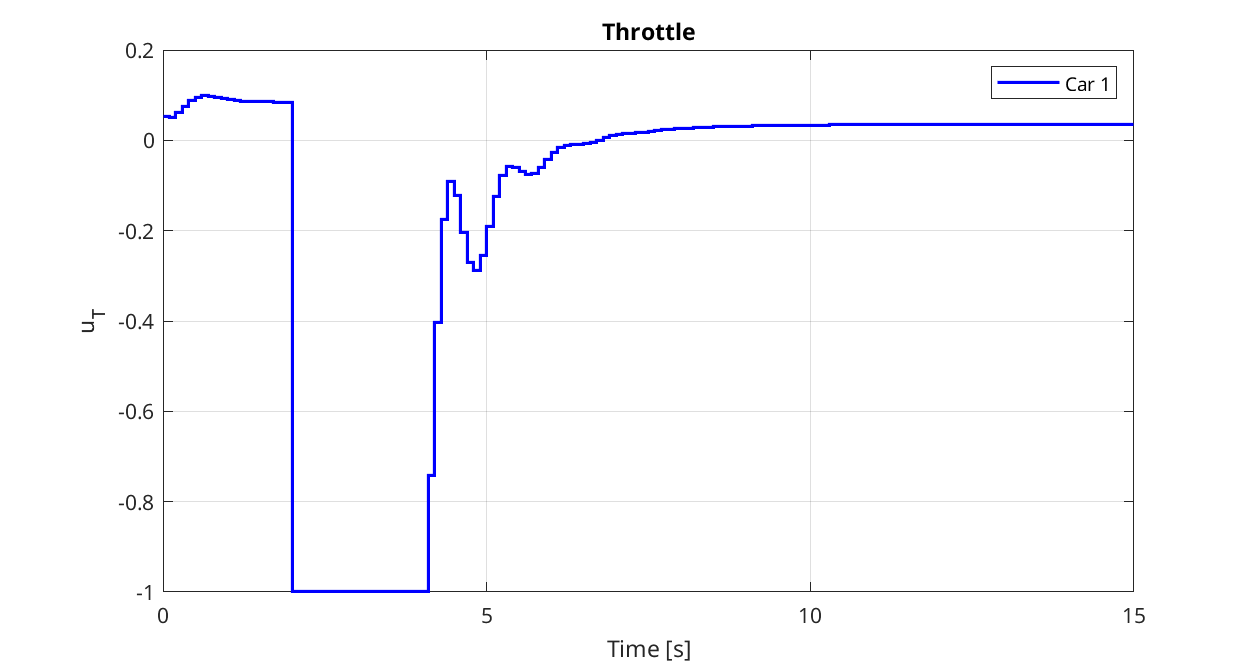
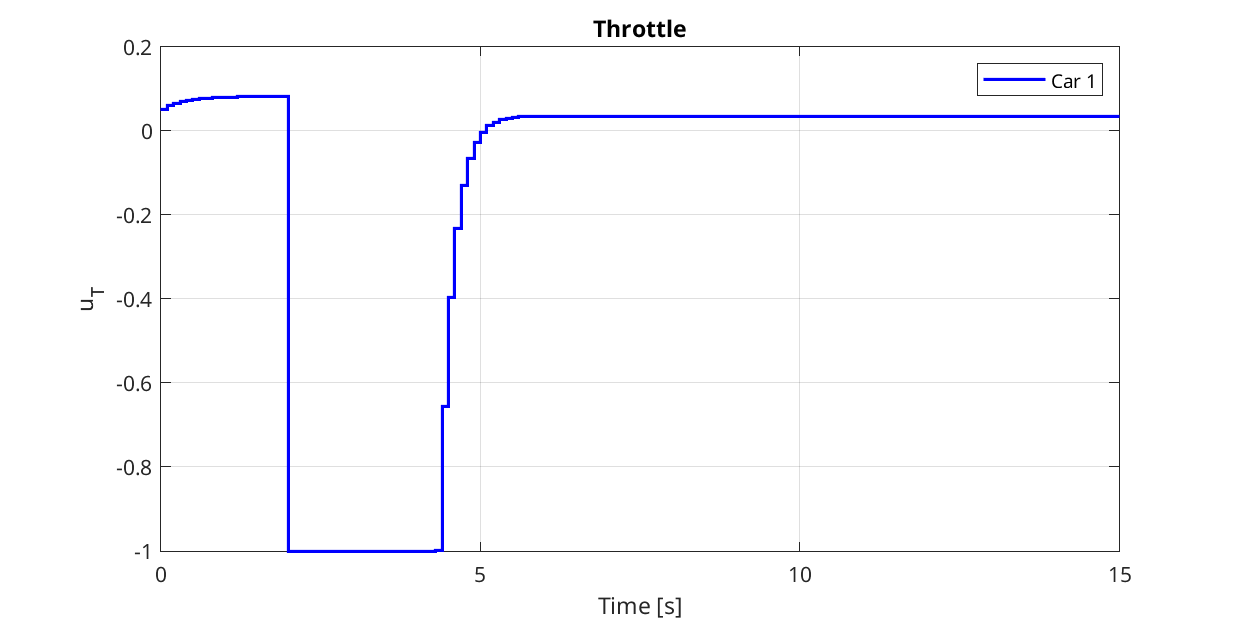
finished part 5 needs to fine tune params

diff --git a/Deliverable_5_1/MpcControl_lon.m b/Deliverable_5_1/MpcControl_lon.m
@@ -1,93 +1,113 @@
 classdef MpcControl_lon < MpcControlBase
     
     methods
-        function mpc = MpcControl_lon(sys, Ts, H)
-            % Call superclass constructor
-            mpc = mpc@MpcControlBase(sys, Ts, H);
-
-        end
-        
         % Design a YALMIP optimizer object that takes a steady-state state
         % and input (xs, us) and returns a control input
         function ctrl_opti = setup_controller(mpc)
             
-            % Horizon parameters
+            %%%%%%%%%%%%%%%%%%%%%%%%%%%%%%%%%%%%%%%%%%%%%%%%
+            % INPUTS
+            %   x0           - initial state (estimate)
+            %   V_ref, u_ref - reference state/input
+            %   d_est        - disturbance estimate
+            %   x0other      - initial state of other car
+            % OUTPUTS
+            %   u0           - input to apply to the system
+            %%%%%%%%%%%%%%%%%%%%%%%%%%%%%%%%%%%%%%%%%%%%%%%%%
+            
             N_segs = ceil(mpc.H/mpc.Ts); % Horizon steps
             N = N_segs + 1;              % Last index in 1-based Matlab indexing
-            
+
             [nx, nu] = size(mpc.B);
             
-            % Targets (not used in relative dynamics)
+            % Targets
             V_ref = sdpvar(1);
             u_ref = sdpvar(1);
-            
-            % Disturbance estimate (not used in tube MPC)
+
+            % Disturbance estimate (Ignore this before Todo 4.1)
             d_est = sdpvar(1);
-            
-            % Initial states (actual and lead car)
+
+            % Initial states
             x0 = sdpvar(nx, 1);
-            x0other = sdpvar(nx, 1);
-            
+            x0other = sdpvar(nx, 1); % (Ignore this before Todo 5.1)
+
             % Input to apply to the system
             u0 = sdpvar(nu, 1);
             
-            % YALMIP Decision variables
-            X = sdpvar(nx, N); % Nominal state trajectory
-            U = sdpvar(nu, N-1); % Nominal input trajectory
-
-
-            % Load pre-computed tube MPC components
+            %%%%%%%%%%%%%%%%%%%%%%%%%%%%%%%%%%%%%%%%%%%%%%%%%%%%%%%%%%%%%%%
+            % YOUR CODE HERE YOUR CODE HERE YOUR CODE HERE YOUR CODE HERE
+            
+            % NOTE: The matrices mpc.A, mpc.B, mpc.C and mpc.D
+            %       are the DISCRETE-TIME MODEL of your system.
+            %       You can find the linearization steady-state
+            %       in mpc.xs and mpc.us.
+            
+            % SET THE PROBLEM CONSTRAINTS con AND THE OBJECTIVE obj HERE
+          
+            % Load pre-computed tube MPC components for robust control
             data = load('tube_mpc_data.mat');
+            xsafe = [data.xsafe_pos; 0];  % Safe reference point [position; velocity]
             
-            % Safe reference point [position; velocity]
-            xsafe = [data.xsafe_pos; 0];
+            % Cost matrices for nominal trajectory tracking
+            Q_track = data.Q_track;    % State cost matrix
+            R_track = data.R_track;    % Input cost matrix
+
+            % Get tightened constraint sets for robust feasibility
+            % These account for the effect of disturbances
+            Fx_t = data.X_tilde.A;     % Tightened state constraint matrix
+            fx_t = data.X_tilde.b;     % Tightened state constraint bounds
+            Fu_t = data.U_tilde.A;     % Tightened input constraint matrix
+            fu_t = data.U_tilde.b;     % Tightened input constraint bounds
+
+            % Setup optimization variables for nominal trajectories
+            X = sdpvar(nx, N);     % Nominal state trajectory [position; velocity]
+            U = sdpvar(nu, N-1);   % Nominal input trajectory [acceleration]
             
-            % Initialize objective and constraints
-            obj = 0;
-            con = [];
+            % Initialize optimization problem
+            obj = 0;    % Objective function
+            con = [];   % Constraint list
             
-            % Initial state constraint (relative coordinates)
+            % Set initial state constraint in relative coordinates
+            % Transform to deviation from safe reference point
             con = con + (X(:,1) == x0other - x0 - xsafe);
             
-            % Cost matrices from data
-            Q = data.Q_track; % State cost for tracking
-            R = data.R_track; % Input cost for tracking
-            
-            % Compute tightened constraint matrices
-            Fx_t = data.X_tilde.A; % State constraints
-            fx_t = data.X_tilde.b;
-            Fu_t = data.U_tilde.A; % Input constraints
-            fu_t = data.U_tilde.b;
-        
-            
-            % Loop over prediction horizon
+            % Build constraints and objective over prediction horizon
             for k = 1:N-1
-                % Cost function
-                obj = obj + X(:,k)'*Q*X(:,k) + U(:,k)'*R*U(:,k);
+                % System dynamics in relative coordinates
+                % Note: Negative input due to relative dynamics transformation
+                con = con + (X(:,k+1) == mpc.A*X(:,k) - mpc.B*U(:,k));
                 
-                % System dynamics
-                con = con + (X(:,k+1) == mpc.A*X(:,k) - mpc.B*U(:,k)); % '-' becausse of the change of dynamics
-                % State and input constraints
-                con = con + (Fx_t*X(:,k) <= fx_t);  % Tightened state constraints
-                con = con + (Fu_t*U(:,k) <= fu_t);  % Tightened input constraints
+                % Apply tightened state and input constraints
+                con = con + (Fx_t*X(:,k) <= fx_t);    % State constraints
+                con = con + (Fu_t*U(:,k) <= fu_t);    % Input constraints
+                
+                % Stage cost: Penalize deviations from nominal trajectory
+                obj = obj + X(:,k)'*Q_track*X(:,k) + U(:,k)'*R_track*U(:,k);
             end
             
-            % Terminal cost and constraint
-            obj = obj + X(:,N)'*data.Qf*X(:,N);
+            % Add terminal components for stability
+            obj = obj + X(:,N)'*data.Qf*X(:,N);    % Terminal cost
             
-            % Get terminal set constraints
+            % Terminal set constraint for recursive feasibility
             Fterm = data.terminal_set.A;
             fterm = data.terminal_set.b;
             con = con + (Fterm*X(:,N) <= fterm);
             
-            % Compute actual input: u = u_nominal + K*(x - x_nominal)
+            % Compute actual control input
+            % u = u_nominal + K*(x - x_nominal)
             % where x is in relative coordinates
-            delta_x = x0other - x0 - xsafe - X(:,1);
-            con = con + (u0 == U(:,1) + data.K*delta_x);
+            delta_x = x0other - x0 - xsafe - X(:,1);  % State error
+            con = con + (u0 == U(:,1) + data.K*delta_x);  % Tube controller
+            
+            % Store variables for debugging
+            debugVars = {X, U};
+            
+            % YOUR CODE HERE YOUR CODE HERE YOUR CODE HERE YOUR CODE HERE
+            %%%%%%%%%%%%%%%%%%%%%%%%%%%%%%%%%%%%%%%%%%%%%%%%%%%%%%%%%%%%%%%
             
             % Return YALMIP optimizer object
             ctrl_opti = optimizer(con, obj, sdpsettings('solver','gurobi'), ...
-                {x0, V_ref, u_ref, d_est, x0other}, {u0, X, U});
+                {x0, V_ref, u_ref, d_est, x0other}, {u0, debugVars{:}});
         end
         
  function [Vs_ref, us_ref] = compute_steady_state_target(mpc, ref, d_est)
@@ -111,22 +131,14 @@ classdef MpcControl_lon < MpcControlBase
             %%%%%%%%%%%%%%%%%%%%%%%%%%%%%%%%%%%%%%%%%%%%%%%%%%%%%%%%%%%%%%%
             % YOUR CODE HERE YOUR CODE HERE YOUR CODE HERE YOUR CODE HERE
 
-            % Store the target velocity as our reference
-            % This is the absolute velocity we want to achieve
+            % Set the reference velocity (Vs_ref)
+            % We directly use the requested reference as our target velocity
             Vs_ref = ref;
             
-            % Compute the required steady-state input (throttle) to maintain the reference velocity
-            % At steady state, the state doesn't change, so x(k+1) = x(k)
-            % This means: 0 = A*(Vs_ref - xs) + B*(us_ref - us)
-            % Solving for us_ss:
-            % us_ref = us - A*(Vs_ref-xs)/B
-            % where:
-            %   - A, B are the linearized system matrices for velocity
-            %   - xs is the linearization velocity point
-            %   - us is the linearization input point
-            %   - (Vs_ref-xs) is how far we want to deviate from the linearization point
+            % Set the reference input (us_ref)
+            % The actual control action is determined by the tube MPC controller
+            % This nominal value is not used since the control law provides the input
             us_ref = 0;
-            
 
             % YOUR CODE HERE YOUR CODE HERE YOUR CODE HERE YOUR CODE HERE
             %%%%%%%%%%%%%%%%%%%%%%%%%%%%%%%%%%%%%%%%%%%%%%%%%%%%%%%%%%%%%%%

diff --git a/Deliverable_5_1/plot_results.m b/Deliverable_5_1/plot_results.m
@@ -1,0 +1,148 @@
+function [f1, f2, f3, f4, f5, f6] = plot_results(result, varargin)
+%PLOT_VEHICLE_RESULTS_SEPARATE Plots vehicle simulation results in separate figures and saves them
+% This function creates and saves separate figures for velocity, position/heading,
+% throttle, steering, disturbance estimation, and relative distance
+%
+% Inputs:
+%   car - Structure containing vehicle parameters
+%   result - Structure containing simulation results
+%   varargin - Optional input for save directory (default: 'plots')
+%
+% Outputs:
+%   f1 - Handle to velocity figure
+%   f2 - Handle to position/heading figure
+%   f3 - Handle to throttle figure
+%   f4 - Handle to steering figure
+%   f5 - Handle to disturbance estimation figure (if available)
+%   f6 - Handle to relative distance figure (if available)
+
+    % Parse input arguments
+    if nargin > 1
+        save_dir = varargin{1};
+    else
+        save_dir = 'plots';
+    end
+    
+    % Create plots directory if it doesn't exist
+    if ~exist(save_dir, 'dir')
+        mkdir(save_dir);
+        fprintf('Created directory: %s\n', save_dir);
+    end
+
+    % Extract data
+    t = result.T;
+    x1 = result.myCar.X(1,:);  % x position
+    y1 = result.myCar.X(2,:);  % y position
+    theta1 = result.myCar.X(3,:);  % heading
+    v1 = result.myCar.X(4,:) * 3.6;  % velocity (converted to km/h)
+    
+    delta1 = rad2deg(result.myCar.U(1,:));  % steering angle in degrees
+    throttle1 = result.myCar.U(2,:);  % throttle input
+    
+    % Figure 1: Velocity
+    f1 = figure('Name', 'Velocity', 'Position', [100, 100, 800, 400]);
+    grid on;
+    box on;
+    hold on;
+    plot(t, v1, 'b', 'LineWidth', 1.5, 'DisplayName', 'Car 1');
+    if isfield(result.myCar, 'Ref')
+        refv1 = result.myCar.Ref(2,:) * 3.6;
+        stairs(t, refv1, '--b', 'LineWidth', 1.5, 'DisplayName', 'Reference');
+    end
+    if isfield(result, 'otherCar')
+        v2 = result.otherCar.X(4,:) * 3.6;
+        plot(t, v2, 'r', 'LineWidth', 1.5, 'DisplayName', 'Car 2');
+    end
+    xlabel('Time [s]');
+    ylabel('V [km/h]');
+    title('Velocity');
+    legend('show');
+    saveas(gcf, fullfile(save_dir, 'velocity.png'));
+    
+    % [Rest of the plotting code remains the same until saving part]
+    % Adding save commands for each figure...
+    
+    % Figure 2: Y Position and Heading
+    f2 = figure('Name', 'Y Position and Heading', 'Position', [150, 150, 800, 400]);
+    grid on;
+    box on;
+    hold on;
+    yyaxis left
+    plot(t, y1, 'b', 'LineWidth', 1.5, 'DisplayName', 'y position');
+    if isfield(result.myCar, 'Ref')
+        refy1 = result.myCar.Ref(1,:);
+        stairs(t, refy1, '--b', 'LineWidth', 1.5, 'DisplayName', 'Reference');
+    end
+    ylabel('y [m]');
+    yyaxis right
+    plot(t, rad2deg(theta1), 'r', 'LineWidth', 1.5, 'DisplayName', 'heading');
+    ylabel('theta [deg]');
+    xlabel('Time [s]');
+    title('Y Position / Heading');
+    legend('show');
+    saveas(gcf, fullfile(save_dir, 'position_heading.png'));
+    
+    % Figure 3: Throttle Input
+    f3 = figure('Name', 'Throttle', 'Position', [200, 200, 800, 400]);
+    grid on;
+    box on;
+    hold on;
+    stairs(t, throttle1, 'b', 'LineWidth', 1.5, 'DisplayName', 'Car 1');
+    if isfield(result, 'otherCar')
+        throttle2 = result.otherCar.U(2,:);
+        stairs(t, throttle2, 'r', 'LineWidth', 1.5, 'DisplayName', 'Car 2');
+    end
+    xlabel('Time [s]');
+    ylabel('u_T');
+    title('Throttle');
+    legend('show');
+    saveas(gcf, fullfile(save_dir, 'throttle.png'));
+    
+    % Figure 4: Steering Input
+    f4 = figure('Name', 'Steering', 'Position', [250, 250, 800, 400]);
+    grid on;
+    box on;
+    hold on;
+    stairs(t, delta1, 'b', 'LineWidth', 1.5, 'DisplayName', 'Car 1');
+    xlabel('Time [s]');
+    ylabel('delta [deg]');
+    title('Steering');
+    legend('show');
+    saveas(gcf, fullfile(save_dir, 'steering.png'));
+    
+    % Figure 5: Disturbance Estimation (if available)
+    if isfield(result.myCar, 'Z_hat')
+        f5 = figure('Name', 'Disturbance Estimation', 'Position', [300, 300, 800, 400]);
+        grid on;
+        box on;
+        hold on;
+        z1 = result.myCar.Z_hat(5,:);
+        plot(t, z1, 'b', 'LineWidth', 1.5, 'DisplayName', 'estimated disturbance');
+        xlabel('Time [s]');
+        ylabel('d');
+        title('Disturbance Estimation');
+        legend('show');
+        saveas(gcf, fullfile(save_dir, 'disturbance.png'));
+    else
+        f5 = [];
+    end
+    
+    % Figure 6: Relative Distance (if other car exists)
+    if isfield(result, 'otherCar')
+        x2 = result.otherCar.X(1,:);
+        f6 = figure('Name', 'Relative Distance', 'Position', [350, 350, 800, 400]);
+        grid on;
+        box on;
+        hold on;
+        plot(t, x2-x1, 'b', 'LineWidth', 1.5, 'DisplayName', 'relative distance');
+        xlabel('Time [s]');
+        ylabel('dist [m]');
+        title('Relative Distance to Car 2');
+        legend('show');
+        saveas(gcf, fullfile(save_dir, 'relative_distance.png'));
+    else
+        f6 = [];
+    end
+    
+    fprintf('All figures saved in %s\n', save_dir);
+end

diff --git a/Deliverable_5_1/robust_tube_mpc.m b/Deliverable_5_1/robust_tube_mpc.m
@@ -24,13 +24,15 @@ ref = [0 120/3.6]';
 params = {};
 params.Tf = 25;
 params.myCar.model = car;
-params.myCar.x0 = [0 0 0 100/3.6]';
+params.myCar.x0 = [0 0 0 115/3.6]';
 params.myCar.u = @mpc.get_u;
 params.myCar.ref = ref;
 params.otherCar.model = car;
-params.otherCar.x0 = [15 0 0 100/3.6]';
-params.otherCar.u = car.u_const(100/3.6);
-%params.otherCar.u = car.u_fwd_ref();
-%params.otherCar.ref = car.ref_robust();
+params.otherCar.x0 = [8 0 0 120/3.6]';
+%params.otherCar.u = car.u_const(100/3.6);
+params.otherCar.u = car.u_fwd_ref();
+params.otherCar.ref = car.ref_robust();
 result = simulate(params);
 visualization(car, result);
+
+%[f1, f2, f3, f4, f5, f6] = plot_results(result);

diff --git a/Deliverable_4_1/offset_free_tracking.m b/Deliverable_4_1/offset_free_tracking.m
@@ -30,8 +30,8 @@ params = {};
 params.Tf = 15;
 params.myCar.model = car;
 params.myCar.x0 = x0;
-params.myCar.est_fcn = @estimator.estimate;
-params.myCar.est_dist0 = 0;
+%params.myCar.est_fcn = @estimator.estimate;
+%params.myCar.est_dist0 = 0;
 params.myCar.u = @mpc.get_u;
 params.myCar.ref = car.ref_step(ref1, ref2, 2); % delay reference step by 2s;
 result = simulate(params);
